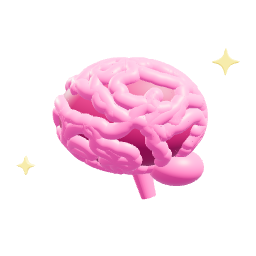
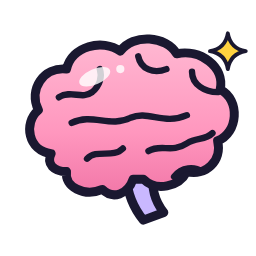
Album (aperçu) : ticket en pochette mystère, neurone dessiné, porte-monnaie, boutons et bonus des défis
Claude-Session: https://claude.ai/code/session_01FH1jSRMKag1diAodaNQgn2

diff --git a/scripts/album/pass-icons.js b/scripts/album/pass-icons.js
@@ -28,11 +28,32 @@ const star5=(R,r)=>{const s=new THREE.Shape();for(let i=0;i<=10;i++){const a=Mat
 const VIOLET=0x7B5CFF,DEEP=0x3A1FB8,SUN=0xFFD23F,GOLD=0xFFC933;
 
 /* ---------- les récompenses ---------- */
-const TPACK=()=>ticket(0x7B5CFF,'#C9BCFF','#24127A',(c,x,y)=>{ // ticket de pochette : un petit sachet
-  c.fillStyle='#fff';rr(c,x-46,y-70,92,140,12);c.fill();c.fillStyle='#7B5CFF';rr(c,x-38,y-58,76,116,8);c.fill();
-  c.fillStyle='#FFD23F';c.beginPath();for(let i=0;i<9;i++){c.rect(x-40+i*10,y-74,6,8);c.rect(x-40+i*10,y+66,6,8);}c.fill();
-  c.strokeStyle='#fff';c.lineWidth=7;c.lineCap='round';for(let i=0;i<4;i++){c.beginPath();c.moveTo(x-18+i*12,y-20);c.lineTo(x-18+i*12,y+22);c.stroke();}
-  c.strokeStyle='#FFD23F';c.beginPath();c.moveTo(x-26,y+14);c.lineTo(x+26,y-12);c.stroke();});
+/* ticket de pochette : une petite pochette violette Brainlix, bords dentelés, grand point d'interrogation soleil */
+function TPACK(){const g=new THREE.Group();const W=1.3,H=1.9,n=10;
+  const sh=new THREE.Shape();sh.moveTo(-W/2,-H/2);
+  for(let i=0;i<n;i++){const x=-W/2+(i+.5)*W/n;sh.lineTo(x,-H/2-.07);sh.lineTo(-W/2+(i+1)*W/n,-H/2);}
+  sh.lineTo(W/2,H/2);for(let i=n-1;i>=0;i--){const x=-W/2+(i+.5)*W/n;sh.lineTo(x,H/2+.07);sh.lineTo(-W/2+i*W/n,H/2);}sh.lineTo(-W/2,-H/2);
+  const tex=canvasTex(390,570,(c,w,h)=>{const gr=c.createLinearGradient(0,0,w,h);gr.addColorStop(0,'#7B5CFF');gr.addColorStop(.5,'#5532F0');gr.addColorStop(1,'#2A1490');c.fillStyle=gr;c.fillRect(0,0,w,h);
+    // bandes serties en haut et en bas
+    c.fillStyle='rgba(255,255,255,.16)';c.fillRect(0,0,w,62);c.fillRect(0,h-62,w,62);c.strokeStyle='rgba(0,0,0,.18)';c.lineWidth=3;for(let x=12;x<w;x+=16){c.beginPath();c.moveTo(x,8);c.lineTo(x,54);c.moveTo(x,h-54);c.lineTo(x,h-8);c.stroke();}
+    c.setLineDash([12,9]);c.strokeStyle='rgba(255,255,255,.8)';c.lineWidth=4;c.beginPath();c.moveTo(10,66);c.lineTo(w-10,66);c.stroke();c.setLineDash([]);
+    // reflet
+    c.fillStyle='rgba(255,255,255,.14)';c.beginPath();c.moveTo(60,0);c.lineTo(140,0);c.lineTo(20,h);c.lineTo(-60,h);c.closePath();c.fill();
+    // médaillon et point d'interrogation
+    c.fillStyle='rgba(20,10,70,.35)';c.beginPath();c.arc(w/2,h*.53,128,0,Math.PI*2);c.fill();
+    c.fillStyle='#FFFFFF';c.beginPath();c.arc(w/2,h*.52,122,0,Math.PI*2);c.fill();
+    c.fillStyle='#FFB800';c.beginPath();c.arc(w/2,h*.52,110,0,Math.PI*2);c.fill();
+    // le point d'interrogation, tracé en gros traits (pas de police) : contour violet puis blanc
+    const q=(lw,col)=>{c.strokeStyle=col;c.fillStyle=col;c.lineWidth=lw;c.lineCap='round';c.lineJoin='round';const cx=w/2,cy=h*.5;
+      c.beginPath();c.arc(cx,cy-38,50,Math.PI*1.08,Math.PI*2.25);c.quadraticCurveTo(cx+8,cy+8,cx,cy+34);c.stroke();
+      c.beginPath();c.arc(cx,cy+86,lw*.6,0,Math.PI*2);c.fill();};
+    q(60,'#2A1490');q(36,'#FFFFFF');
+    c.font='900 30px Nunito, Arial Black, sans-serif';c.textAlign='center';c.textBaseline='middle';c.fillStyle='#fff';c.fillText('B R A I N L I X',w/2,112);});
+  tex.repeat.set(1/W,1/(H+.14));tex.offset.set(.5,.5-.07/(H+.14)+.035);
+  const side=phys(0x4B2FD6,{roughness:.35});const front=new THREE.MeshStandardMaterial({map:tex,roughness:.3,metalness:.1,emissive:0xffffff,emissiveMap:tex,emissiveIntensity:.25});
+  g.add(new THREE.Mesh(extrude(sh,.12,.05),side));const face=new THREE.Mesh(new THREE.ShapeGeometry(sh,24),front);face.position.z=.06+.05+.002;g.add(face);
+  [[.85,.95,.13],[-.9,-.7,.1]].forEach(([x,y,s])=>{const sp=spark(s,0xFFD23F);sp.position.set(x,y,.25);g.add(sp);});
+  g.rotation.set(-.08,-.38,.12);return {obj:g,cam:[0,.1,4.6,0,0,0]};}
 function JETON(){const g=new THREE.Group();
   const tex=canvasTex(512,512,(c,W,H)=>{const gr=c.createConicGradient?c.createConicGradient(0,W/2,H/2):null;
     if(gr){['#FF6A88','#F6C744','#3FD0A0','#4A9BFF','#B66BFF','#FF6A88'].forEach((col,i)=>gr.addColorStop(i/5,col));c.fillStyle=gr;}else c.fillStyle='#B66BFF';
@@ -149,24 +170,8 @@ function FLAMME(){const g=new THREE.Group();
   g.rotation.y=-.35;return {obj:g,cam:[0,.2,4.6,0,0,0]};}
 async function COMBO(a,b,sb=.62,ob=[.62,-.55,.35]){const A=await a(),B=await b();const g=new THREE.Group();A.obj.position.x=-.25;g.add(A.obj);B.obj.scale.setScalar(sb);B.obj.position.set(...ob);g.add(B.obj);return {obj:g,cam:[0,.2,4.8,0,0,0]};}
 
-/* le neurone, monnaie de l'album : un petit cerveau rose tout rond, en lobes, avec un éclat */
-function NEURONE(){const g=new THREE.Group();const gyr=phys(0xF7579A,{roughness:.36}),deep=phys(0x9E1F55,{roughness:.55}),back=phys(0xE04A8A,{roughness:.4});
-  let k=5;const rnd=()=>{k=(k*16807)%2147483647;return (k-1)/2147483646;};
-  // cerveau de profil : un ovale sombre couvert de circonvolutions roses bien rondes (des boudins sinueux)
-  const A=[1.1,.8,.7],O=new THREE.Vector3(0,.12,0);
-  const core=new THREE.Mesh(new THREE.SphereGeometry(1,64,40),deep);core.scale.set(A[0]*.93,A[1]*.93,A[2]*.93);core.position.copy(O);g.add(core);
-  const surf=(u,v)=>{const cu=Math.cos(u),su=Math.sin(u),cv=Math.cos(v),sv=Math.sin(v);return new THREE.Vector3(O.x+A[0]*cv*su*.9,O.y+A[1]*sv*.9,O.z+A[2]*cv*cu*.9);};
-  for(let c=0;c<64;c++){let u=-Math.PI+rnd()*Math.PI*2,v=-1.2+rnd()*2.4,dir=rnd()*Math.PI*2;const pts=[];
-    for(let t=0;t<16;t++){pts.push(surf(u,v));dir+=(rnd()-.5)*1.6;u+=Math.cos(dir)*.12;v+=Math.sin(dir)*.1;v=Math.max(-1.35,Math.min(1.35,v));}
-    g.add(new THREE.Mesh(new THREE.TubeGeometry(new THREE.CatmullRomCurve3(pts),80,.115,14,false),gyr));
-    [pts[0],pts[pts.length-1]].forEach(p=>{const cap=new THREE.Mesh(new THREE.SphereGeometry(.115,16,12),gyr);cap.position.copy(p);g.add(cap);});}
-  const cer=new THREE.Mesh(new THREE.SphereGeometry(1,48,32),back);cer.scale.set(.4,.27,.38);cer.position.set(.66,-.6,-.1);g.add(cer);
-  const stem=new THREE.Mesh(new THREE.CylinderGeometry(.16,.11,.55,24),back);stem.position.set(.2,-.8,-.12);stem.rotation.z=.28;g.add(stem);
-  [[1.32,.85,.15],[-1.35,-.55,.11]].forEach(([x,y,s])=>{const sp=spark(s,0xFFD23F);sp.position.set(x,y,.5);g.add(sp);});
-  g.rotation.set(.1,-.2,0);return {obj:g,cam:[0,0,4.3,0,0,0]};}
-
+/* le neurone (monnaie de l'album) est un dessin, pas une icône 3D : scripts/album/neurone.svg */
 window.PASS_ICONS={
-  neurone:NEURONE,
   ticket_pochette:TPACK, jeton:JETON,
   dos_soleil:()=>PDOS('soleil'), dos_nuit:()=>PDOS('nuit'), dos_domaines:()=>PDOS('domaines'), dos_or:()=>PDOS('or'),
   cadre_citrouille:()=>CADRE('citrouille'), cadre_vitrail:()=>CADRE('vitrail'), cadre_nuit:()=>CADRE('nuit'), cadre_marbre:()=>CADRE('marbre'), cadre_toile:()=>CADRE('toile'),

diff --git a/ios/CultFive/Features/Album/SeasonPassView.swift b/ios/CultFive/Features/Album/SeasonPassView.swift
@@ -153,10 +153,10 @@ struct SeasonPassView: View {
         HStack(alignment: .top, spacing: Space.s) {
             VStack(alignment: .leading, spacing: 8) {
                 TrackBadge(paid: false)
-                perk("chest_gold", "10 coffres")
-                perk("ticket_pochette", "8 tickets de pochette")
-                perk("jeton", "1 jeton Prestige")
-                perk("doree", "Pochette dorée au 30")
+                perk("10 coffres")
+                perk("8 tickets de pochette")
+                perk("1 jeton Prestige")
+                perk("Pochette dorée au 30")
                 Spacer(minLength: 0)
                 Text("Pour tout le monde")
                     .font(.system(.caption, design: .rounded).weight(.heavy))
@@ -168,10 +168,10 @@ struct SeasonPassView: View {
             .overlay(RoundedRectangle(cornerRadius: Radius.m, style: .continuous).strokeBorder(Color.hairline, lineWidth: 1.5))
             VStack(alignment: .leading, spacing: 8) {
                 TrackBadge(paid: true)
-                perk("jeton", "3 jetons Prestige", onDark: true)
-                perk("coffret", "3 coffrets de catégorie", onDark: true)
-                perk("cadre_vitrail", "Cadres, finitions, dos", onDark: true)
-                perk("final_payant", "Cadre animé au 30", onDark: true)
+                perk("3 jetons Prestige", onDark: true)
+                perk("3 coffrets de catégorie", onDark: true)
+                perk("Cadres, finitions, dos", onDark: true)
+                perk("Cadre animé au 30", onDark: true)
                 Spacer(minLength: 0)
                 if store.passPlus {
                     Label("Activé", systemImage: "checkmark.circle.fill")
@@ -204,9 +204,12 @@ struct SeasonPassView: View {
         .fixedSize(horizontal: false, vertical: true)
     }
 
-    private func perk(_ icon: String, _ text: String, onDark: Bool = false) -> some View {
-        HStack(spacing: 6) {
-            AlbumImage(kind: .pass, name: icon).frame(width: 26, height: 26)
+    private func perk(_ text: String, onDark: Bool = false) -> some View {
+        HStack(spacing: 7) {
+            // Puce simple aux couleurs de la piste (plus d'icône 3D ici).
+            Circle()
+                .fill(onDark ? Color.sun : Color.brand)
+                .frame(width: 6, height: 6)
             Text(text)
                 .font(.system(.caption, design: .rounded).weight(.bold))
                 .foregroundStyle(onDark ? Color.white : Color.ink)
@@ -403,12 +406,9 @@ private struct SeasonChallenges: View {
     var body: some View {
         VStack(alignment: .leading, spacing: Space.m) {
             HStack(alignment: .center, spacing: Space.s) {
-                Image(systemName: "target")
-                    .font(.system(size: 22, weight: .bold))
-                    .foregroundStyle(.white)
-                    .frame(width: 46, height: 46)
-                    .background(LinearGradient(colors: [Color(hex: 0xFF8FB1), Color(hex: 0xF0588F)], startPoint: .top, endPoint: .bottom),
-                                in: RoundedRectangle(cornerRadius: 14, style: .continuous))
+                Capsule()
+                    .fill(LinearGradient(colors: [Color(hex: 0xFF8FB1), Color(hex: 0xF0588F)], startPoint: .top, endPoint: .bottom))
+                    .frame(width: 6, height: 40)
                 VStack(alignment: .leading, spacing: 2) {
                     Text("Défis de saison").font(.cfHeadline).foregroundStyle(Color.ink)
                     Text("Tes objectifs habituels font monter le pass.")
@@ -467,12 +467,7 @@ private struct SeasonChallenges: View {
                 row(items[i], index: i, accent: accent, points: points, bonus: bonus, total: items.count, done: done)
             }
             if let bonus {
-                HStack {
-                    Image(systemName: "gift.fill").foregroundStyle(count == items.count ? accent : Color.inkSoft.opacity(0.5))
-                    Text("Bonus : tous les défis").font(.cfFootnote).foregroundStyle(Color.inkSoft)
-                    Spacer()
-                    Text("+\(bonus)").font(.cfNumber).foregroundStyle(count == items.count ? Color.correct : Color.inkSoft)
-                }
+                BonusBar(bonus: bonus, count: count, total: items.count, accent: accent)
             }
         }
         .popCard()
@@ -506,5 +501,49 @@ private struct SeasonChallenges: View {
             .contentShape(Rectangle())
         }
         .buttonStyle(.plain)
+    }
+}
+
+/// Bonus d'un groupe de défis : une barre à la couleur du groupe qui se remplit à chaque défi, verte une fois gagnée.
+private struct BonusBar: View {
+    let bonus: Int
+    let count: Int
+    let total: Int
+    let accent: Color
+
+    private var won: Bool { count >= total }
+
+    var body: some View {
+        let color = won ? Color.correct : accent
+        let progress = CGFloat(min(count, total)) / CGFloat(max(total, 1))
+        VStack(alignment: .leading, spacing: 6) {
+            HStack(spacing: Space.s) {
+                Text(won ? "Bonus gagné" : "Bonus · fais les \(total) défis")
+                    .font(.system(.subheadline, design: .rounded).weight(.heavy))
+                    .foregroundStyle(won ? Color.correct : Color.ink)
+                    .lineLimit(1)
+                    .minimumScaleFactor(0.8)
+                Spacer(minLength: 4)
+                Text("+\(bonus)")
+                    .font(.system(.subheadline, design: .rounded).weight(.black))
+                    .monospacedDigit()
+                    .foregroundStyle(.white)
+                    .padding(.horizontal, 10)
+                    .padding(.vertical, 3)
+                    .background(color, in: Capsule())
+                    .fixedSize()
+            }
+            GeometryReader { proxy in
+                ZStack(alignment: .leading) {
+                    Capsule().fill(color.opacity(0.15))
+                    Capsule().fill(color).frame(width: max(8, proxy.size.width * progress))
+                }
+            }
+            .frame(height: 8)
+        }
+        .padding(12)
+        .background(color.opacity(0.08), in: RoundedRectangle(cornerRadius: Radius.s, style: .continuous))
+        .animation(Motion.standard, value: count)
+        .accessibilityElement(children: .combine)
     }
 }

diff --git a/ios/CultFive/Features/Album/ComptoirView.swift b/ios/CultFive/Features/Album/ComptoirView.swift
@@ -55,7 +55,7 @@ struct ComptoirView: View {
         HStack(spacing: Space.s) {
             WalletTile(icon: "neurone", value: store.neurones, label: "Neurones",
                        tint: Color(hex: 0xF0588F), fill: [Color(hex: 0xFFF0F6), Color(hex: 0xFFE0EC)])
-            WalletTile(icon: "ticket_pochette", value: store.tickets, label: store.tickets > 1 ? "Tickets de pochette" : "Ticket de pochette",
+            WalletTile(icon: "ticket_pochette", value: store.tickets, label: store.tickets > 1 ? "Tickets" : "Ticket",
                        tint: .brand, fill: [Color(hex: 0xF3EFFF), Color(hex: 0xE6DEFF)])
         }
     }
@@ -290,13 +290,15 @@ private struct WalletTile: View {
                     .font(.system(.title2, design: .rounded).weight(.black))
                     .monospacedDigit()
                     .foregroundStyle(Color.inkFixed)
+                    .lineLimit(1)
+                    .minimumScaleFactor(0.6)
                     .contentTransition(.numericText())
                 Text(label)
-                    .font(.system(.caption2, design: .rounded).weight(.heavy))
+                    .font(.system(.footnote, design: .rounded).weight(.heavy))
                     .foregroundStyle(tint)
+                    .lineLimit(1)
+                    .fixedSize()
             }
-            .lineLimit(1)
-            .minimumScaleFactor(0.7)
             Spacer(minLength: 0)
         }
         .padding(12)
@@ -328,8 +330,9 @@ struct ShopButton: View {
                 Text(title)
                     .font(.system(.body, design: .rounded).weight(.heavy))
                     .lineLimit(1)
-                    .minimumScaleFactor(0.75)
-                Spacer(minLength: Space.s)
+                    .minimumScaleFactor(0.6)
+                    .layoutPriority(0)
+                Spacer(minLength: 4)
                 HStack(spacing: 4) {
                     AlbumImage(kind: .pass, name: icon).frame(width: 24, height: 24)
                     if let price {
@@ -343,6 +346,8 @@ struct ShopButton: View {
                 .padding(.trailing, price == nil ? 6 : 10)
                 .padding(.vertical, 4)
                 .background(.white.opacity(0.25), in: Capsule())
+                .fixedSize()
+                .layoutPriority(1)
             }
             .foregroundStyle(text)
             .padding(.leading, 18)
